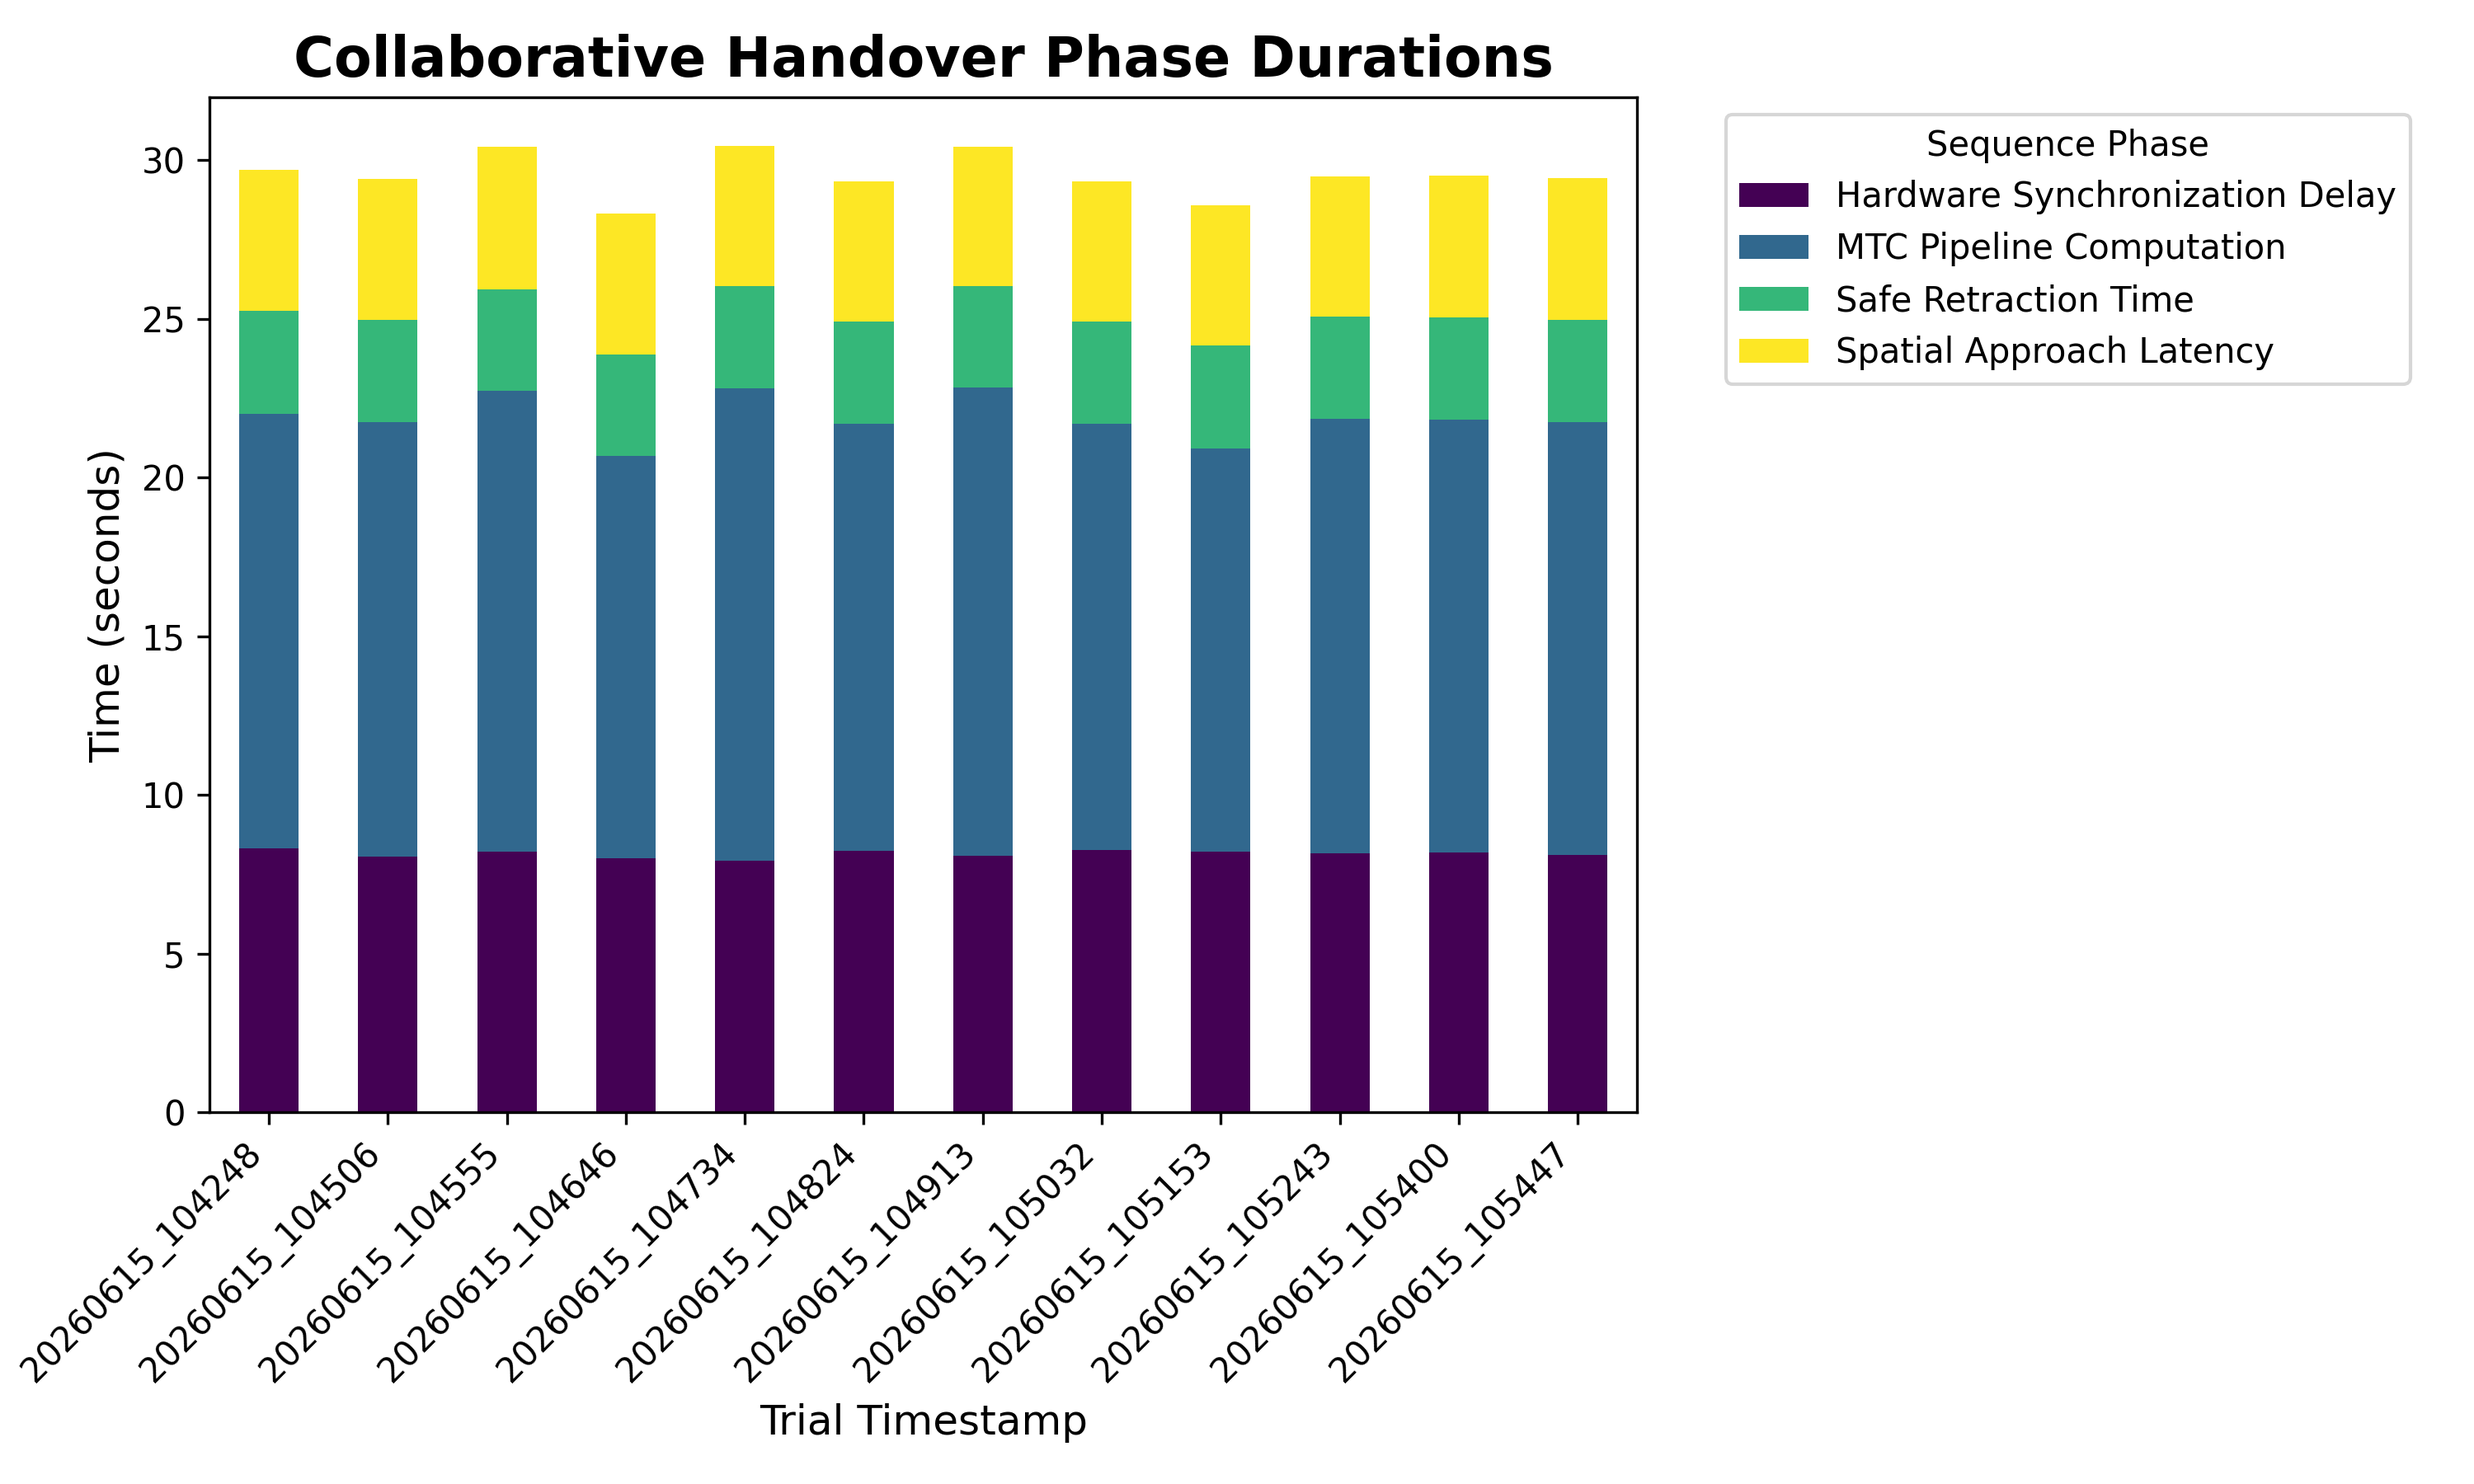
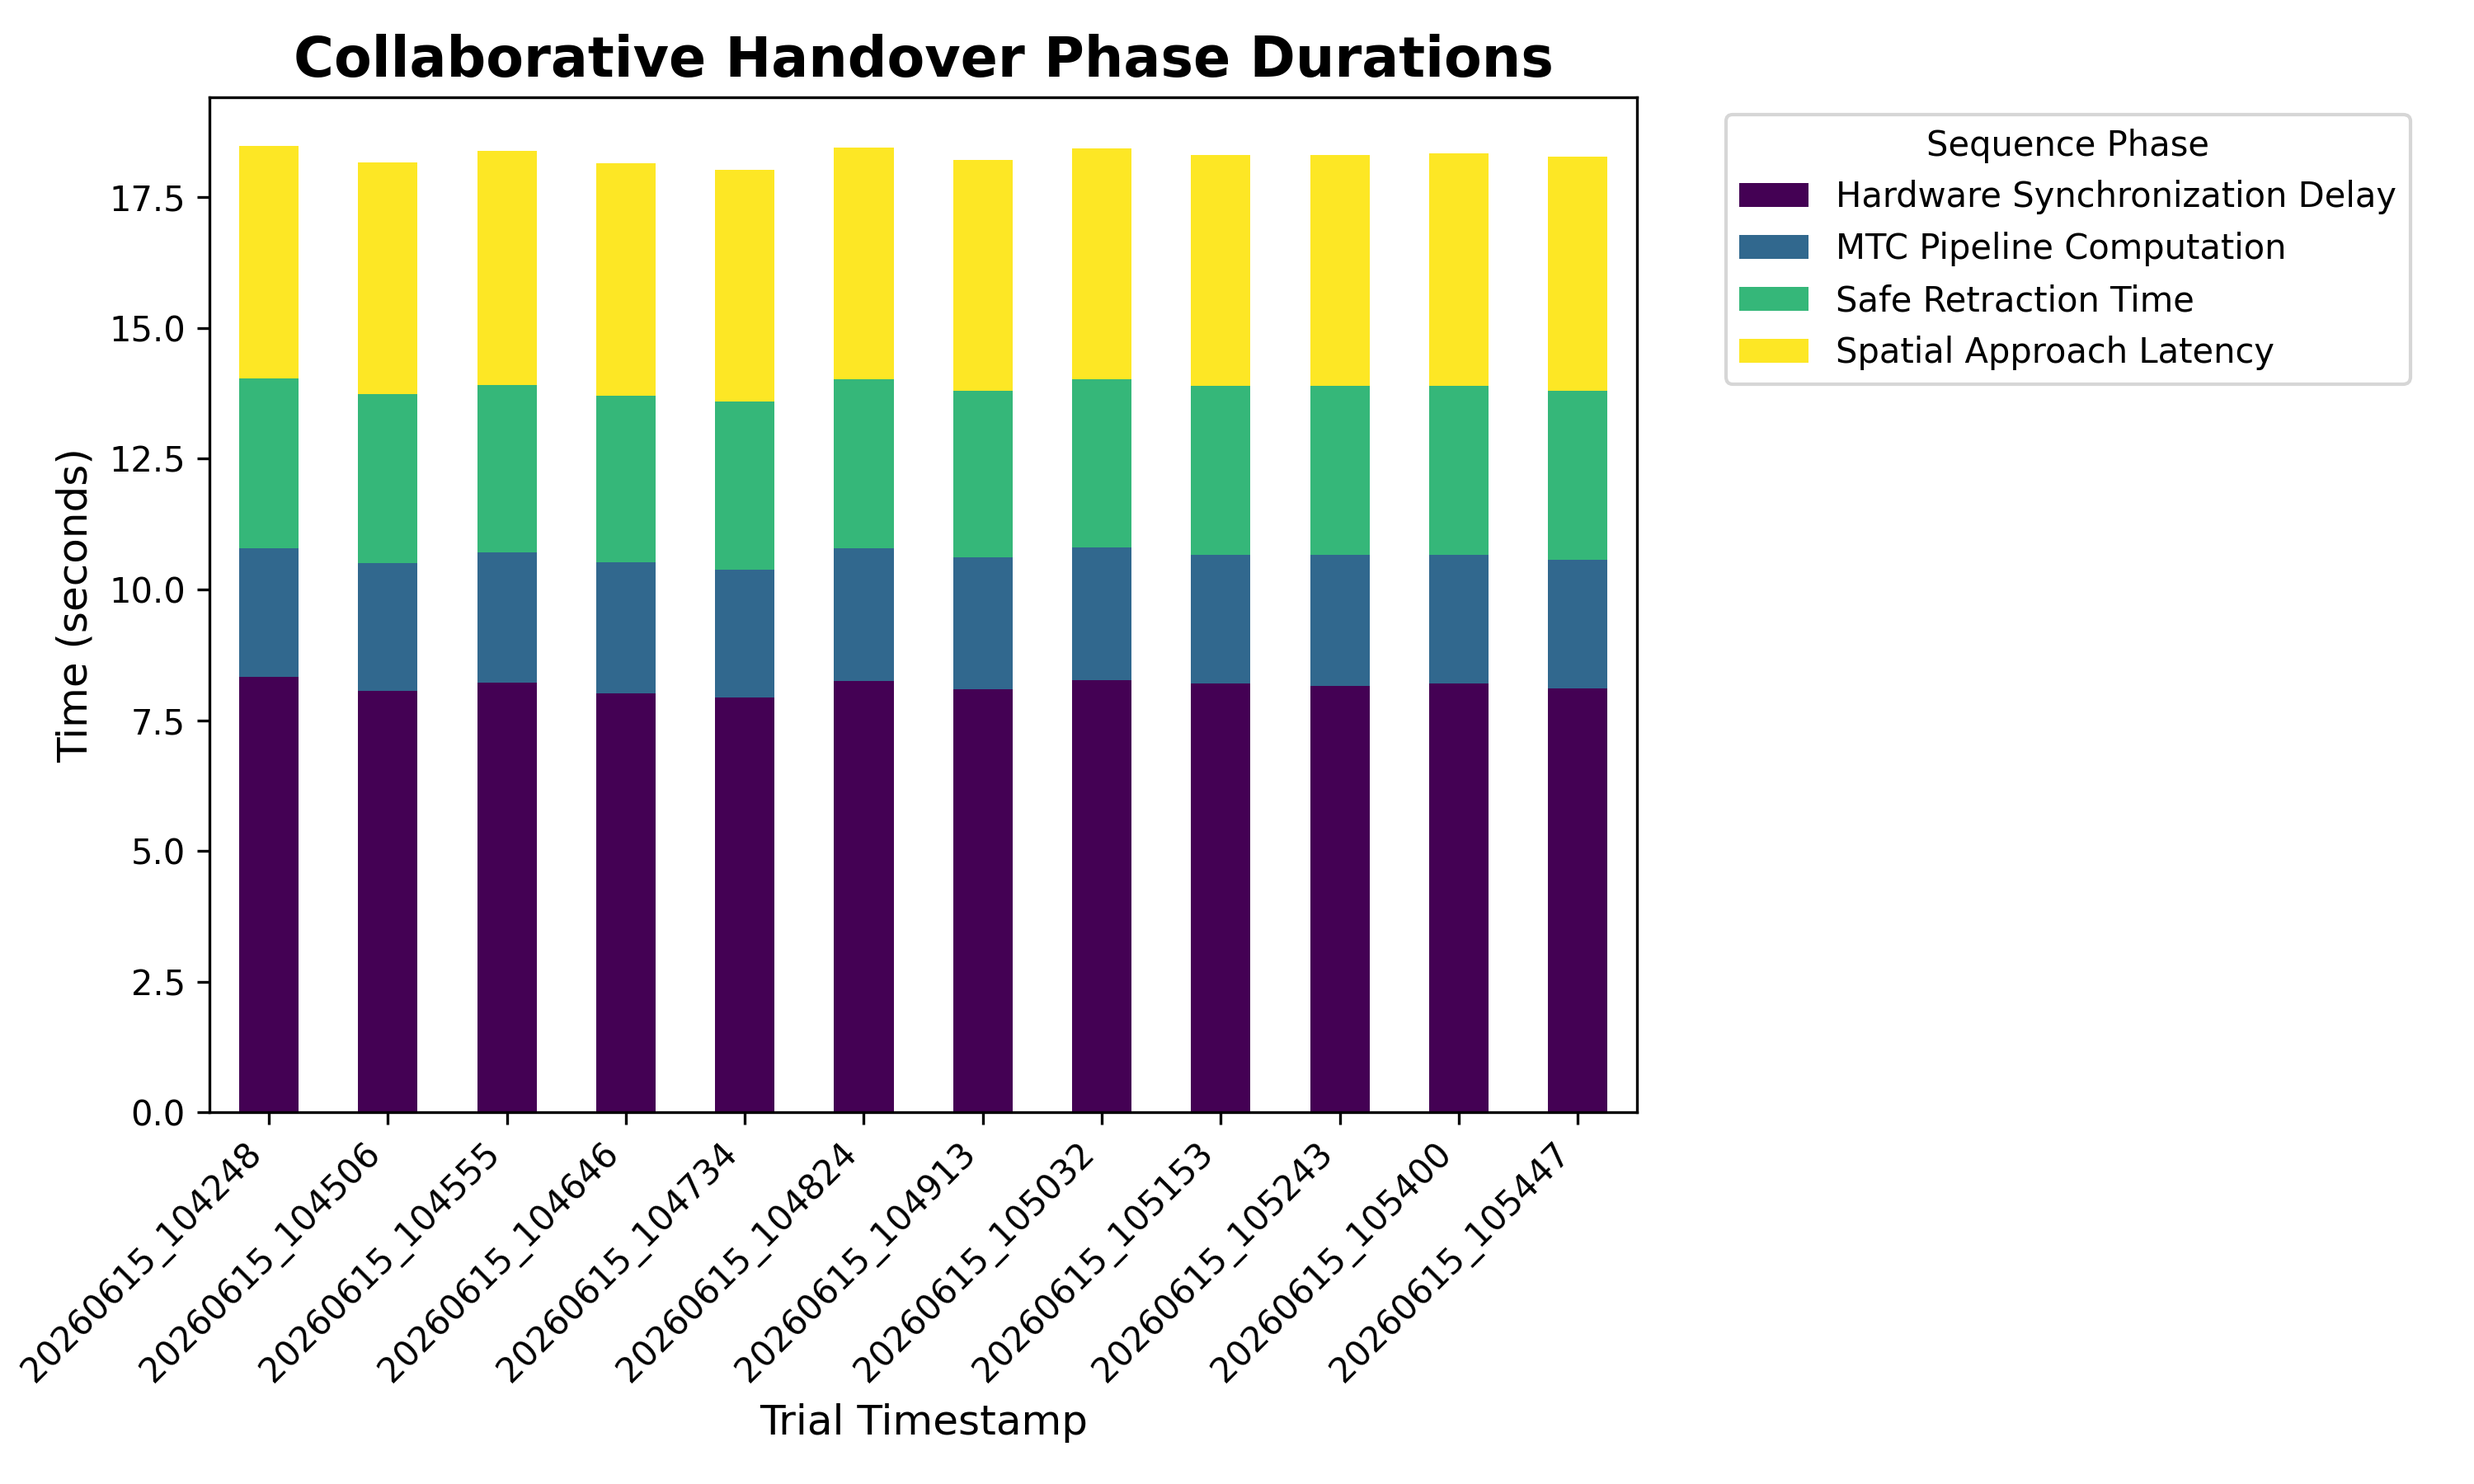
edit handover values

diff --git a/Thesis_GP2/chapters/chapter7/ch7_collab_efficiency.tex b/Thesis_GP2/chapters/chapter7/ch7_collab_efficiency.tex
@@ -58,12 +58,12 @@ The handover was decomposed into four discrete functional stages to evaluate the
         \toprule
         \textbf{Handover Phase} & \textbf{Duration (s)} & \textbf{\% of Total Exchange} \\
         \midrule
-        MTC Pipeline Computation (s) & 13.727  & 46.5\% \\
-        Spatial Approach (s)        & 4.440 & 15.0\% \\
-        Hardware Synchronization (s) & 8.152 & 27.6\% \\
-        Safe Retraction (s)          & 3.219 & 10.9\% \\
+        MTC Pipeline Computation (s) & 2.486  & 13.6\% \\
+        Spatial Approach (s)        & 4.440 & 24.3\% \\
+        Hardware Synchronization (s) & 8.152 & 44.6\% \\
+        Safe Retraction (s)          & 3.219 & 17.6\% \\
         \midrule
-        \textbf{Total Exchange Time} & \textbf{29.538} & \textbf{100\%} \\
+        \textbf{Total Exchange Time} & \textbf{18.297} & \textbf{100\%} \\
         \bottomrule
     \end{tabular}
 \end{table}
